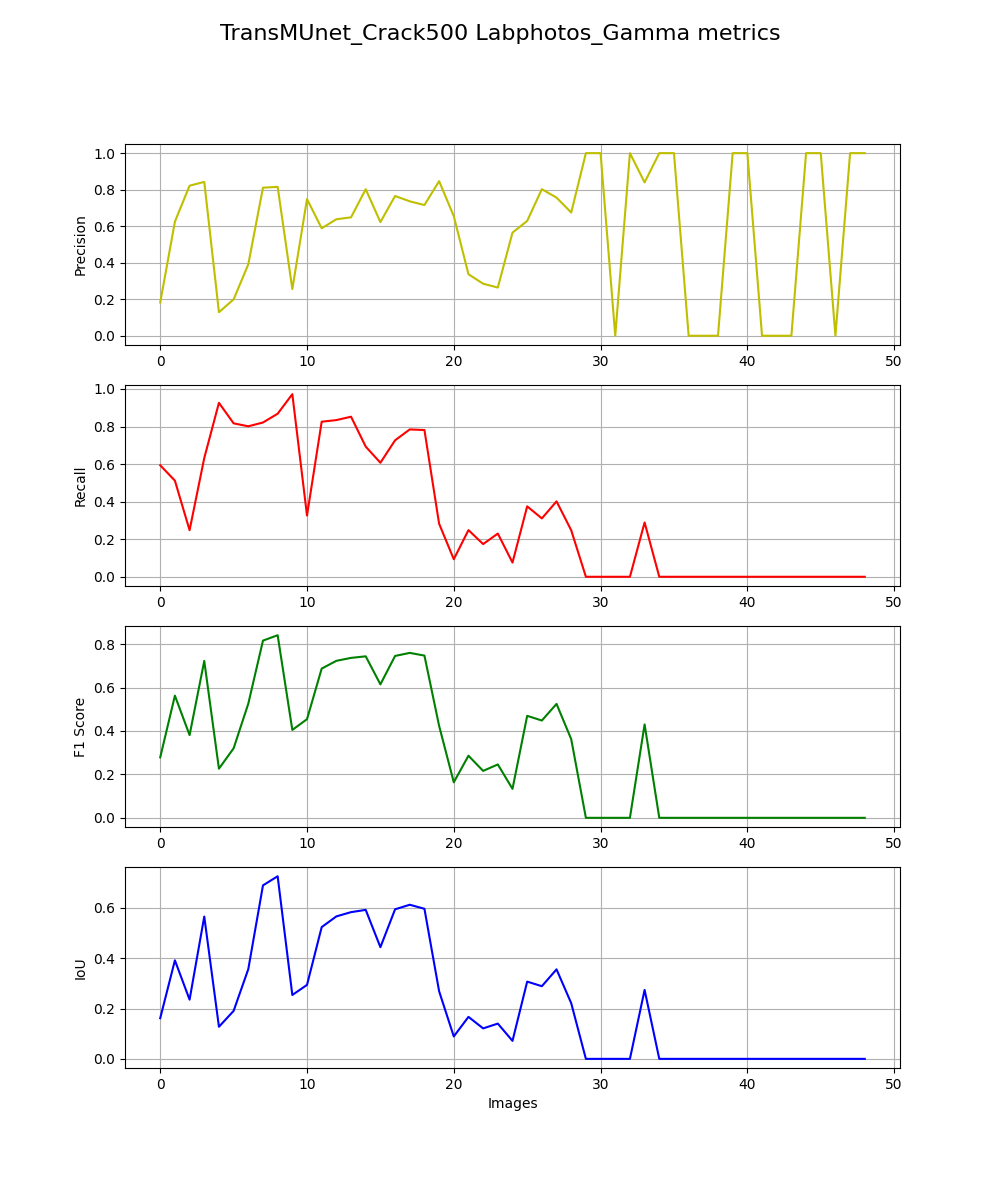
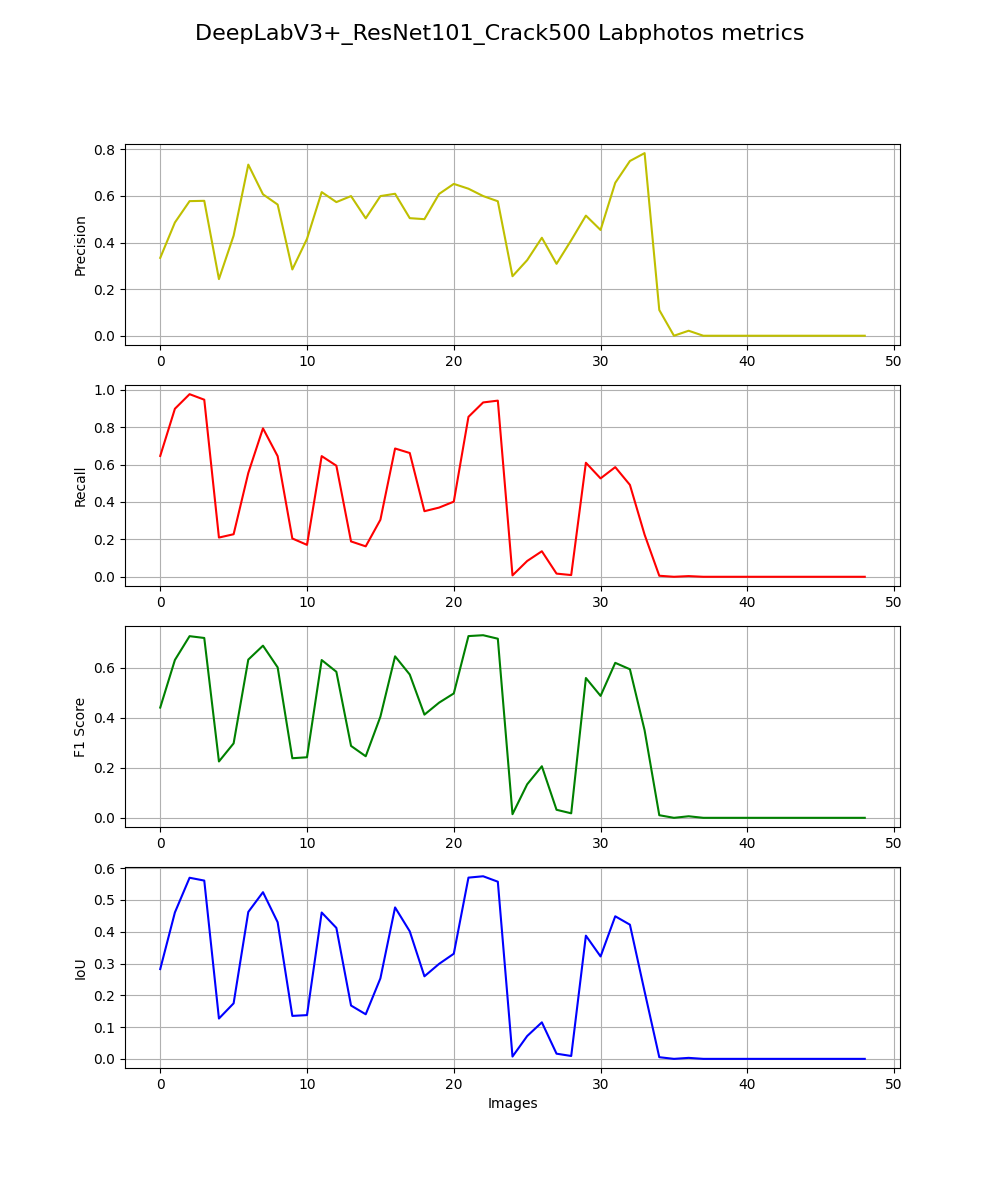
d=800 gamma gain results

diff --git a/evaluate_crack.py b/evaluate_crack.py
@@ -19,7 +19,7 @@ parser = argparse.ArgumentParser()
 parser.add_argument('--output', type=str, default='./results.prf')
 parser.add_argument('--thresh_step', type=float, default=0.01)
 args = parser.parse_args()
-model = 'TransMUnet_Crack500 Labphotos_Gamma'
+model = 'TransMUnet_Crack500 Wet Condition'
 folder = ['gain', 'gamma', '']
 def cal_prf_metrics(pred_list, gt_list, distance=[], angle=[], thresh_step=0.01, img_names=None):
     final_accuracy_all = []
@@ -292,13 +292,13 @@ print(device)
 # img_names= natsorted(img_names)
 # mask_names=natsorted(mask_names)
 
-distance = [250, 300, 400, 500, 600, 700, 800, 900, 1000, 1200]
+distance = [800]
 
 angle = [10, 20, 45, 75, 90]
 data_path = config['path_to_testdata']
-DIR_IMG = [os.path.join(data_path, f'd_{d}/gamma') for d in distance] 
+DIR_IMG = [os.path.join(data_path, f'd_{d}/wet') for d in distance] 
 img_names = natsorted([path.name for img_dir in DIR_IMG for path in Path(img_dir).glob('*.jpg')])
-DIR_MASK = [os.path.join(data_path, f'd_{d}/gamma') for d in distance]
+DIR_MASK = [os.path.join(data_path, f'd_{d}/wet') for d in distance]
 mask_names = natsorted([path.name for mask_dir in DIR_MASK for path in Path(mask_dir).glob('*.png')])
 # gain, gamma and d IoU values in one graph for 800
 
@@ -309,7 +309,7 @@ test_loader  = DataLoader(test_dataset, batch_size = 1, shuffle= False)
 print(f'test_dataset:{len(test_dataset)}')
 
 Net = TransMUNet(n_classes = number_classes)
-#Net = deepLab.deeplabv3plus_mobilenet(num_classes=number_classes, output_stride=8)
+#Net = deepLab.deeplabv3plus_resnet101(num_classes=number_classes, output_stride=8)
 Net = Net.to(device)
 Net.load_state_dict(torch.load(config['saved_model'], map_location='cpu')['model_weights'])
 

diff --git a/model/utils.py b/model/utils.py
@@ -11,9 +11,9 @@ class _SimpleSegmentationModel(nn.Module):
         super(_SimpleSegmentationModel, self).__init__()
         self.backbone = backbone
         self.classifier = classifier
-        self.boundary = nn.Sequential(DeformConv2d(24, 24, modulation=True),
-                                      nn.BatchNorm2d(24), nn.ReLU(), 
-                                      nn.Conv2d(24, 1, kernel_size=1, stride=1, bias=False))
+        self.boundary = nn.Sequential(DeformConv2d(256, 256, modulation=True),
+                                      nn.BatchNorm2d(256), nn.ReLU(), 
+                                      nn.Conv2d(256, 1, kernel_size=1, stride=1, bias=False))
         
     def forward(self, x, istrain=False):
         stages = dict()
